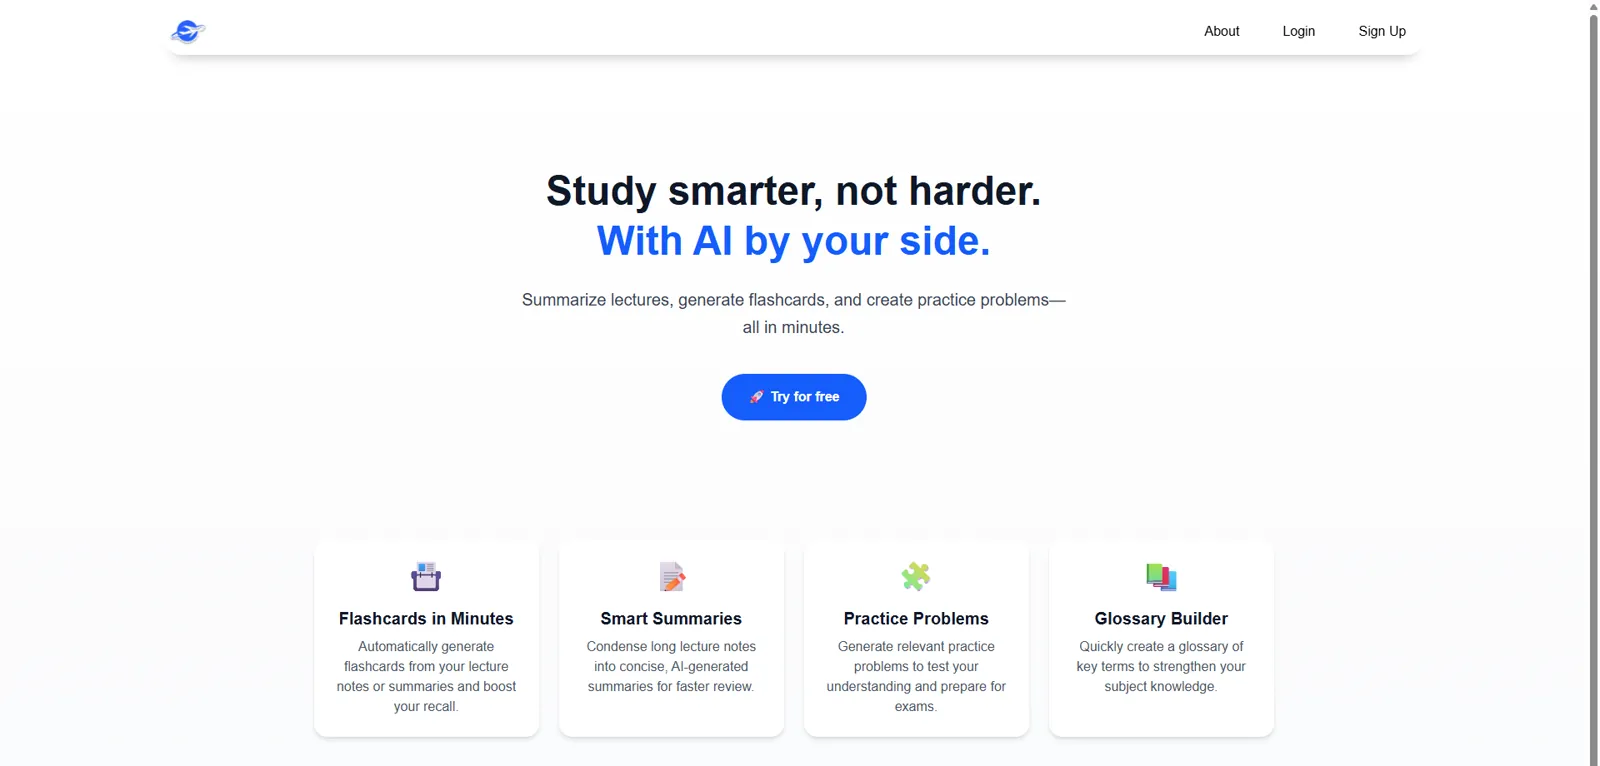
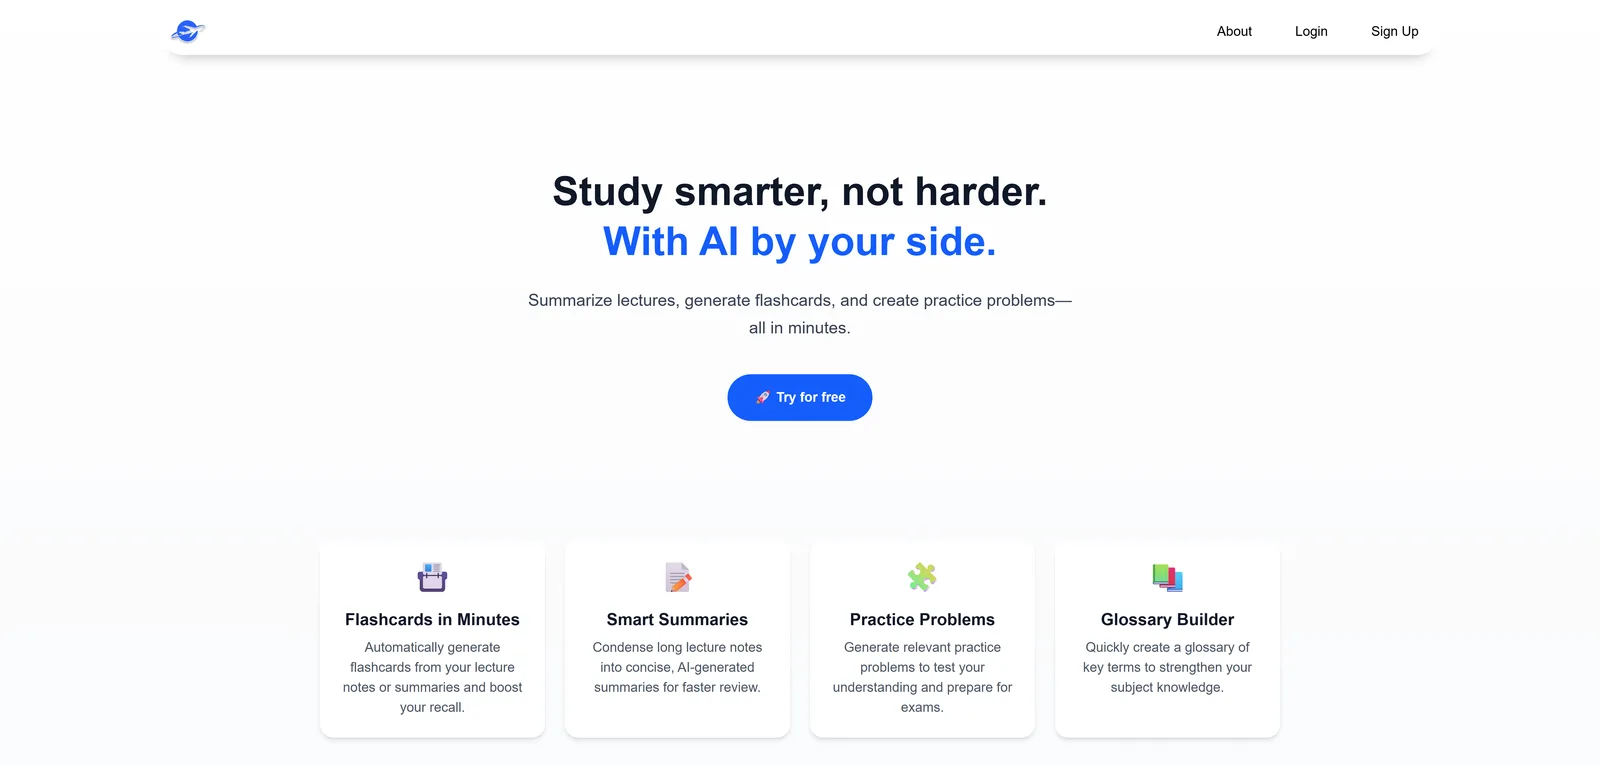
Let the screenshot script reach the screens that are behind a login
Only the scam checker was scripted. The other four projects' images were
hand-captured, which meant they could be refreshed from exactly one machine
and, in practice, never were.

The obstacle was never the capturing. Note-Pilot, Fresh-Flat and
ProductCatalouge all keep the screens worth photographing behind a sign-in,
and the honest options were to hard-code three login flows or to leave
those images alone. This does neither: `npm run shots:login -- fresh-flat`
opens a real browser, waits for a person to sign in, and keeps the cookies
in a git-ignored `.auth/`. No selectors to maintain, no credentials in the
repo, and three apps handled by one mechanism. Until a session is saved the
gated shots are skipped by name, the run still succeeds, and the closing
message says which command would unlock them.

Sizing was the other latent bug. Every shot was rendered at one fixed
viewport and stretched to 1600x900, but the front matter declares heights
of 766, 750, 592, 520 and 400 — so re-running the script over those images
would have silently squashed them. A shot now declares the size it must
come out at and the width to render at, and the viewport is derived from
the two, which makes disagreement impossible rather than merely unlikely.

note-pilot-home is captured for the first time as proof the path works
end to end. It matches the hand-captured original it replaces, minus the
scrollbar that original had down its right edge.
[…]

diff --git a/README.md b/README.md
@@ -57,8 +57,8 @@ After that, `git push`/`git pull` authenticate automatically on that device.
 ## Project screenshots
 
 The images on the project cards are captured from the live apps by a script, not
-by hand, so they can be refreshed from any machine rather than from whichever
-one happens to have the originals on it:
+by hand, so they can be refreshed from any machine rather than from whichever one
+happens to have the originals on it:
 
 ```sh
 npx playwright install chromium   # once per device
@@ -66,18 +66,37 @@ npm run shots                     # every shot
 npm run shots -- scam             # only shots whose name contains "scam"
 ```
 
-Each shot is rendered in a small 16:9 viewport at three times device scale and
-downsampled to a 1600x900 `.webp` in `public/images/projects/`, which is the
-size the cards and the detail-page galleries expect. To add or change a shot,
-edit the `SHOTS` list at the top of
-[`scripts/capture-screenshots.mjs`](./scripts/capture-screenshots.mjs) — a shot
-is a name, a URL, and optionally a `setup(page)` that clicks the app into the
-state worth photographing. Then add the file to the project's front matter in
-`src/content/projects/`, with `alt`, `width` and `height`, all of which the
-content schema requires.
+Each shot declares the exact size it must come out at, because the cards and
+galleries hard-code `width` and `height` in the project front matter and a shot
+delivered at a different aspect arrives visibly squashed. The viewport is derived
+from that size, so the render and the output can never disagree; the render
+itself is done at three times device scale and downsampled, which is what keeps
+the text sharp. To add or change a shot, edit the `SHOTS` list at the top of
+[`scripts/capture-screenshots.mjs`](./scripts/capture-screenshots.mjs) — a shot is
+a name, a URL, an output size, a render width, and optionally a `setup(page)`
+that clicks the app into the state worth photographing. Then add the file to the
+project's front matter in `src/content/projects/`, with `alt`, `width` and
+`height`, all of which the content schema requires.
 
-Only the scam checker is wired up so far; the other projects' images predate the
-script and were captured by hand.
+### Screens behind a login
+
+Note-Pilot, Fresh-Flat and ProductCatalouge keep everything worth photographing
+behind a sign-in, so those shots reuse a saved browser session:
+
+```sh
+npm run shots:login -- note-pilot   # opens a real browser; sign in, press Enter
+npm run shots                       # now captures the signed-in screens too
+```
+
+Signing in is deliberately not scripted. Three apps means three different forms
+and three sets of credentials, and credentials do not belong in this repo — so
+the browser opens, a person signs in, and only the cookies the site itself sets
+are kept, in a git-ignored `.auth/`. Until a session is saved, those shots are
+skipped with a message naming the command that would unlock them, and the run
+still succeeds.
+
+BasicImageEditor has no live URL, so its image cannot be scripted at all and is
+still the hand-captured original.
 
 ## Project structure
 
